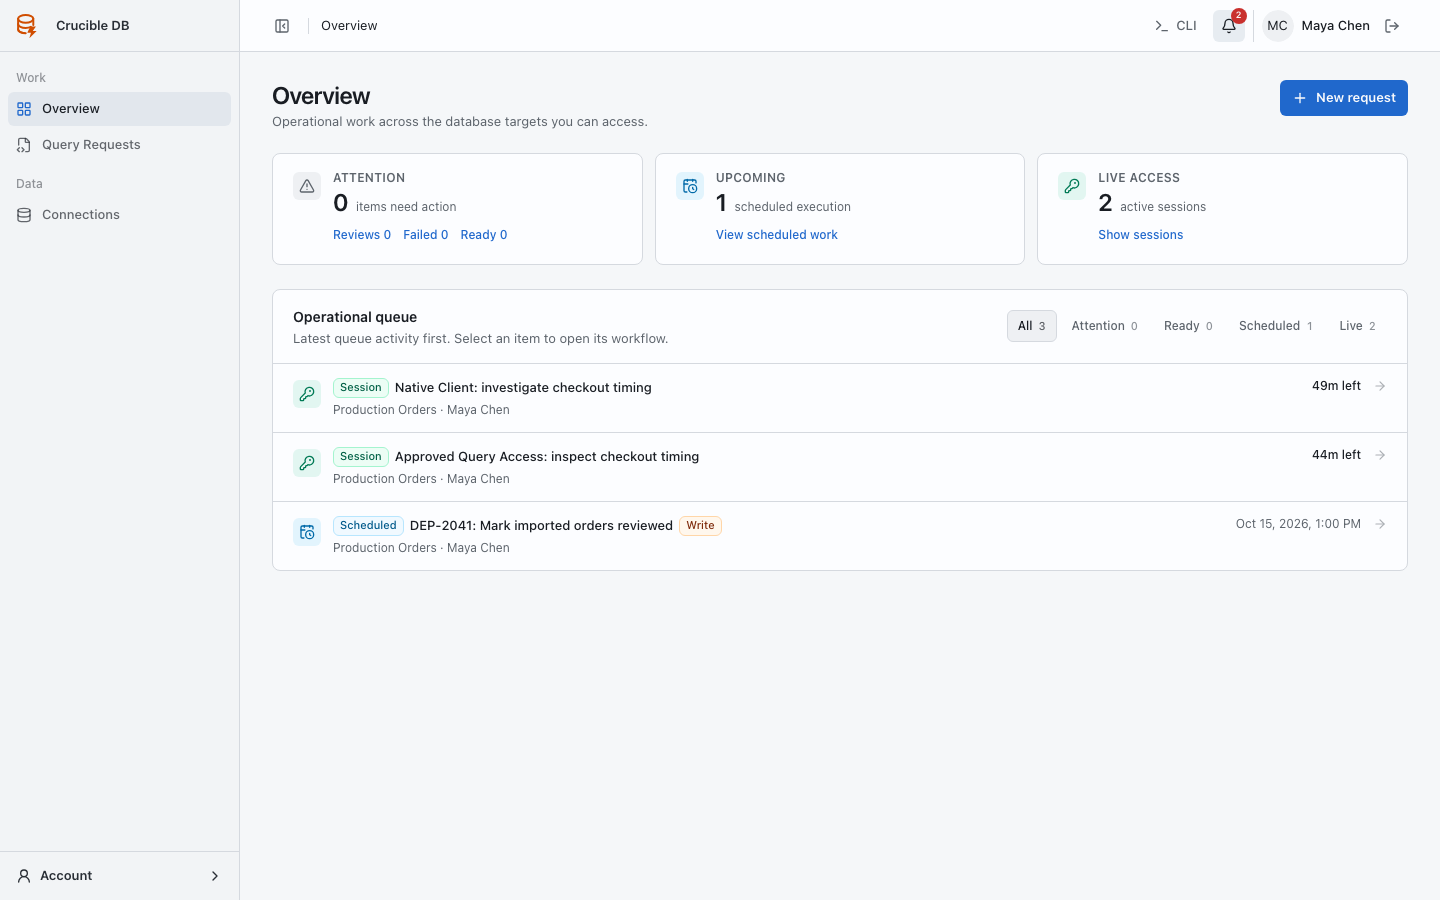
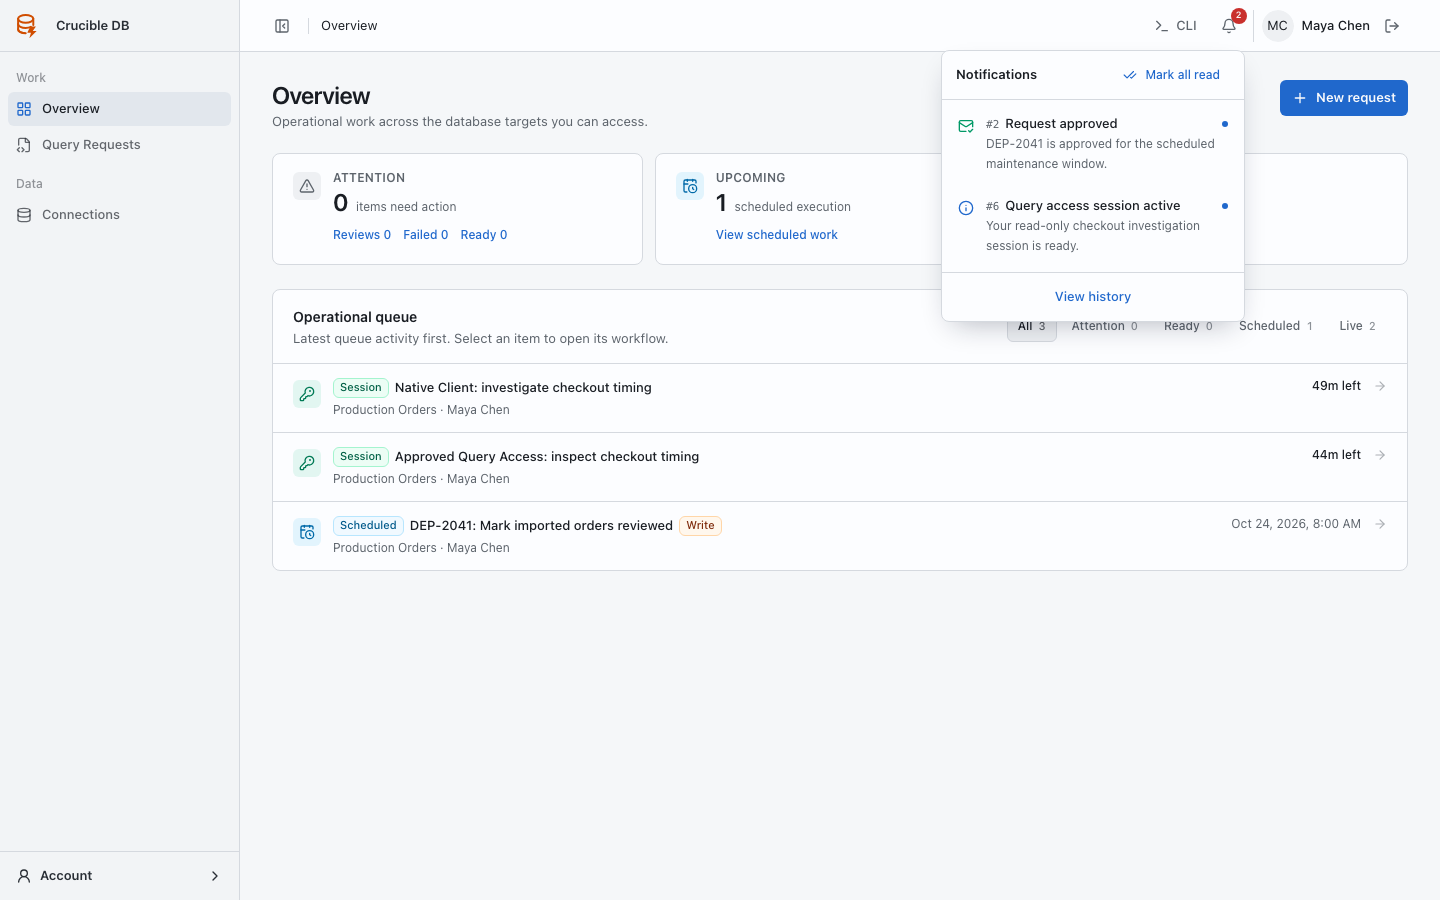
feat(query-requests): surface stable request IDs

diff --git a/resources/js/components/app-sidebar-header.tsx b/resources/js/components/app-sidebar-header.tsx
@@ -40,6 +40,7 @@ type NotificationPreview = {
     severity: 'info' | 'success' | 'warning' | 'critical';
     title: string;
     message: string;
+    request_id?: number | null;
     url: string;
     read_at: string | null;
 };
@@ -207,13 +208,22 @@ export function AppSidebarHeader({
                                                 severity={notification.severity}
                                             />
                                             <span className="min-w-0 flex-1">
-                                                <span className="flex items-center gap-2">
-                                                    <span className="truncate text-sm font-medium">
+                                                <span className="flex min-w-0 items-baseline gap-1.5">
+                                                    {notification.request_id !=
+                                                        null && (
+                                                        <span className="shrink-0 font-mono text-[11px] text-muted-foreground tabular-nums">
+                                                            #
+                                                            {
+                                                                notification.request_id
+                                                            }
+                                                        </span>
+                                                    )}
+                                                    <span className="min-w-0 flex-1 truncate text-sm font-medium">
                                                         {notification.title}
                                                     </span>
                                                     {notification.read_at ===
                                                         null && (
-                                                        <span className="size-1.5 shrink-0 rounded-full bg-primary" />
+                                                        <span className="size-1.5 shrink-0 self-center rounded-full bg-primary" />
                                                     )}
                                                 </span>
                                                 <span className="mt-0.5 line-clamp-2 block text-xs leading-5 text-muted-foreground">

diff --git a/resources/js/pages/query-requests/index.tsx b/resources/js/pages/query-requests/index.tsx
@@ -192,10 +192,13 @@ export default function QueryRequestsIndex({
                             </div>
                         ) : (
                             <div className="overflow-x-auto">
-                                <table className="w-full min-w-[760px] text-sm">
+                                <table className="w-full min-w-[820px] text-sm">
                                     <thead>
                                         <tr className="border-b bg-muted/35 text-left text-xs text-muted-foreground">
-                                            <th className="py-3 pr-4 pl-4 font-medium sm:pl-6">
+                                            <th className="w-20 py-3 pr-4 pl-4 font-medium sm:pl-6">
+                                                ID
+                                            </th>
+                                            <th className="py-3 pr-4 font-medium">
                                                 Request
                                             </th>
                                             <th className="py-3 pr-4 font-medium">
@@ -222,6 +225,15 @@ export default function QueryRequestsIndex({
                                                 className="border-b transition-colors last:border-0 hover:bg-accent/55"
                                             >
                                                 <td className="py-3.5 pr-4 pl-4 sm:pl-6">
+                                                    <Link
+                                                        href={show(request.id)}
+                                                        className="font-mono text-xs text-muted-foreground tabular-nums hover:text-primary"
+                                                        aria-label={`Open request #${request.id}`}
+                                                    >
+                                                        {`#${request.id}`}
+                                                    </Link>
+                                                </td>
+                                                <td className="py-3.5 pr-4">
                                                     <Link
                                                         href={show(request.id)}
                                                         className="font-medium hover:text-primary"

diff --git a/resources/js/pages/notifications/index.tsx b/resources/js/pages/notifications/index.tsx
@@ -24,6 +24,7 @@ type NotificationItem = {
     severity: 'info' | 'success' | 'warning' | 'critical';
     title: string;
     message: string;
+    request_id?: number | null;
     action_label: string;
     url: string;
     created_at: string | null;
@@ -95,6 +96,15 @@ export default function NotificationsIndex({
                                         />
                                         <div className="min-w-0">
                                             <div className="flex flex-wrap items-center gap-x-2 gap-y-1">
+                                                {notification.request_id !=
+                                                    null && (
+                                                    <span className="font-mono text-xs text-muted-foreground tabular-nums">
+                                                        #
+                                                        {
+                                                            notification.request_id
+                                                        }
+                                                    </span>
+                                                )}
                                                 <h2 className="text-sm font-semibold">
                                                     {notification.title}
                                                 </h2>

diff --git a/resources/js/components/crucible/query-request-filters.tsx b/resources/js/components/crucible/query-request-filters.tsx
@@ -40,7 +40,7 @@ export function QueryRequestFilters({
                             <Input
                                 name="search"
                                 defaultValue={filters.search}
-                                placeholder="Request, requester, connection"
+                                placeholder="ID, request, requester, connection"
                                 className="pl-9"
                                 aria-label="Search requests"
                             />

diff --git a/tests/Feature/NotificationDeliveryTest.php b/tests/Feature/NotificationDeliveryTest.php
@@ -112,9 +112,11 @@ class NotificationDeliveryTest extends TestCase
             ->assertInertia(fn ($page) => $page
                 ->component('notifications/index')
                 ->has('notifications.data', 1)
+                ->where('notifications.data.0.request_id', 42)
                 ->where('notification_summary.unread_count', 1)
                 ->has('notification_summary.recent', 1)
-                ->where('notification_summary.recent.0.id', $notification->id),
+                ->where('notification_summary.recent.0.id', $notification->id)
+                ->where('notification_summary.recent.0.request_id', 42),
             );
 
         $this->actingAs($user)
@@ -236,9 +238,36 @@ class NotificationDeliveryTest extends TestCase
 
         app(NotificationDispatcher::class)->requestSubmitted($request);
 
-        Notification::assertSentTo($reviewer, OperationalNotification::class, function (OperationalNotification $notification): bool {
-            return $notification->toArray($this)['event'] === 'query_request.review_required';
+        Notification::assertSentTo($reviewer, OperationalNotification::class, function (OperationalNotification $notification) use ($request): bool {
+            $payload = $notification->toArray($this);
+
+            return $payload['event'] === 'query_request.review_required'
+                && $payload['request_id'] === $request->id;
         });
+    }
+
+    public function test_operational_notification_mail_surfaces_the_request_id_when_available(): void
+    {
+        $user = User::factory()->create();
+        $notification = new OperationalNotification([
+            'event' => 'query_request.execution_failed',
+            'severity' => 'critical',
+            'title' => 'Batch execution failed',
+            'message' => 'Voucher outlet deployment failed at statement 4.',
+            'action_label' => 'Open request',
+            'url' => route('query-requests.show', 45),
+            'request_id' => 45,
+            'connection_count' => 1,
+            'statement_position' => 4,
+        ], true, true);
+
+        $mail = $notification->toMail($user);
+
+        $this->assertSame('[#45] Batch execution failed · Crucible DB', $mail->subject);
+        $this->assertSame([
+            'Request #45',
+            'Voucher outlet deployment failed at statement 4.',
+        ], $mail->introLines);
     }
 
     private function adminUser(): User
@@ -259,6 +288,7 @@ class NotificationDeliveryTest extends TestCase
                 'severity' => 'critical',
                 'title' => 'Batch execution failed',
                 'message' => 'DEP-42 failed at statement 2.',
+                'request_id' => 42,
                 'action_label' => 'Open request',
                 'url' => route('dashboard'),
             ],

diff --git a/app/Http/Controllers/QueryRequestController.php b/app/Http/Controllers/QueryRequestController.php
@@ -677,13 +677,21 @@ class QueryRequestController extends Controller
         $query
             ->when($filters['search'] !== '', function (Builder $query) use ($filters): void {
                 $search = $filters['search'];
+                $matchedRequestId = Str::of($search)
+                    ->match('/(?:^#?|\/query-requests\/)(\d+)(?:[\/?#]|$)/')
+                    ->toString();
+                $requestId = $matchedRequestId !== '' ? (int) $matchedRequestId : null;
 
-                $query->where(function (Builder $query) use ($search): void {
+                $query->where(function (Builder $query) use ($requestId, $search): void {
                     $query->where('title', 'like', "%{$search}%")
                         ->orWhereHas('requester', fn (Builder $requesters) => $requesters->where('name', 'like', "%{$search}%"))
                         ->orWhereHas('databaseConnection', fn (Builder $connections) => $connections->where('name', 'like', "%{$search}%"))
                         ->orWhereHas('accessConnections', fn (Builder $connections) => $connections->where('name', 'like', "%{$search}%"))
                         ->orWhereHas('statements.databaseConnection', fn (Builder $connections) => $connections->where('name', 'like', "%{$search}%"));
+
+                    if ($requestId !== null) {
+                        $query->orWhere('query_requests.id', $requestId);
+                    }
                 });
             })
             ->when($filters['status'] !== '', fn (Builder $query) => $query->where('status', $filters['status']))

diff --git a/tests/Unit/QueryRequestIdentifierLayoutTest.php b/tests/Unit/QueryRequestIdentifierLayoutTest.php
@@ -1,0 +1,44 @@
+<?php
+
+namespace Tests\Unit;
+
+use PHPUnit\Framework\TestCase;
+
+final class QueryRequestIdentifierLayoutTest extends TestCase
+{
+    public function test_request_ids_are_a_visible_searchable_first_column(): void
+    {
+        $pageSource = file_get_contents(
+            dirname(__DIR__, 2).'/resources/js/pages/query-requests/index.tsx',
+        );
+        $filterSource = file_get_contents(
+            dirname(__DIR__, 2).'/resources/js/components/crucible/query-request-filters.tsx',
+        );
+
+        $this->assertIsString($pageSource);
+        $this->assertIsString($filterSource);
+        $this->assertMatchesRegularExpression(
+            '/<th[^>]*>\s*ID\s*<\/th>\s*<th[^>]*>\s*Request\s*<\/th>/',
+            $pageSource,
+        );
+        $this->assertStringContainsString('{`#${request.id}`}', $pageSource);
+        $this->assertStringContainsString('aria-label={`Open request #${request.id}`}', $pageSource);
+        $this->assertStringContainsString(
+            'placeholder="ID, request, requester, connection"',
+            $filterSource,
+        );
+    }
+
+    public function test_request_id_remains_visible_on_the_detail_page(): void
+    {
+        $pageSource = file_get_contents(
+            dirname(__DIR__, 2).'/resources/js/pages/query-requests/show.tsx',
+        );
+
+        $this->assertIsString($pageSource);
+        $this->assertStringContainsString(
+            'description={`Request #${query_request.id}`}',
+            $pageSource,
+        );
+    }
+}

diff --git a/tests/Feature/CrucibleMvpTest.php b/tests/Feature/CrucibleMvpTest.php
@@ -857,6 +857,35 @@ SQL;
                 ->where('query_requests.data.0.title', 'Customer export'));
     }
 
+    public function test_query_request_index_search_accepts_request_ids_and_urls(): void
+    {
+        $admin = $this->adminUser();
+        $queryRequest = QueryRequest::factory()->create([
+            'requester_id' => $admin->id,
+            'title' => 'Request found by identifier',
+        ]);
+        QueryRequest::factory()->create([
+            'requester_id' => $admin->id,
+            'title' => 'Unrelated request',
+        ]);
+
+        $searchValues = [
+            (string) $queryRequest->id,
+            '#'.$queryRequest->id,
+            route('query-requests.show', $queryRequest),
+        ];
+
+        foreach ($searchValues as $search) {
+            $this->actingAs($admin)
+                ->get(route('query-requests.index', ['search' => $search]))
+                ->assertOk()
+                ->assertInertia(fn (Assert $page) => $page
+                    ->where('filters.search', $search)
+                    ->has('query_requests.data', 1)
+                    ->where('query_requests.data.0.id', $queryRequest->id));
+        }
+    }
+
     public function test_query_request_index_lists_and_filters_every_target_connection(): void
     {
         $admin = $this->adminUser();

diff --git a/tests/Unit/NotificationIdentifierLayoutTest.php b/tests/Unit/NotificationIdentifierLayoutTest.php
@@ -1,0 +1,34 @@
+<?php
+
+namespace Tests\Unit;
+
+use PHPUnit\Framework\TestCase;
+
+final class NotificationIdentifierLayoutTest extends TestCase
+{
+    public function test_request_ids_are_visible_in_the_notification_center_and_history(): void
+    {
+        $notificationCenterSource = file_get_contents(
+            dirname(__DIR__, 2).'/resources/js/components/app-sidebar-header.tsx',
+        );
+        $notificationHistorySource = file_get_contents(
+            dirname(__DIR__, 2).'/resources/js/pages/notifications/index.tsx',
+        );
+
+        $this->assertIsString($notificationCenterSource);
+        $this->assertIsString($notificationHistorySource);
+
+        foreach ([$notificationCenterSource, $notificationHistorySource] as $source) {
+            $this->assertStringContainsString(
+                'notification.request_id !=',
+                $source,
+            );
+            $this->assertStringContainsString(
+                'notification.request_id',
+                $source,
+            );
+            $this->assertStringContainsString('font-mono', $source);
+            $this->assertStringContainsString('tabular-nums', $source);
+        }
+    }
+}

diff --git a/app/Notifications/OperationalNotification.php b/app/Notifications/OperationalNotification.php
@@ -56,8 +56,14 @@ class OperationalNotification extends Notification implements ShouldQueue
      */
     public function toMail(object $notifiable): MailMessage
     {
+        $requestId = $this->payload['request_id'] ?? null;
+        $subject = $requestId === null
+            ? $this->payload['title'].' · Crucible DB'
+            : "[#{$requestId}] {$this->payload['title']} · Crucible DB";
+
         return (new MailMessage)
-            ->subject($this->payload['title'].' · Crucible DB')
+            ->subject($subject)
+            ->lineIf($requestId !== null, "Request #{$requestId}")
             ->line($this->payload['message'])
             ->action($this->payload['action_label'], $this->payload['url'])
             ->line('Open Crucible DB to view this governed database operation.');

diff --git a/app/Http/Controllers/NotificationController.php b/app/Http/Controllers/NotificationController.php
@@ -23,6 +23,7 @@ class NotificationController extends Controller
                     'severity' => $notification->data['severity'] ?? 'info',
                     'title' => $notification->data['title'] ?? 'Operational notification',
                     'message' => $notification->data['message'] ?? '',
+                    'request_id' => $notification->data['request_id'] ?? null,
                     'action_label' => $notification->data['action_label'] ?? 'Open',
                     'url' => $notification->data['url'] ?? route('dashboard'),
                     'created_at' => $notification->created_at?->toIso8601String(),

diff --git a/app/Http/Middleware/HandleInertiaRequests.php b/app/Http/Middleware/HandleInertiaRequests.php
@@ -63,6 +63,7 @@ class HandleInertiaRequests extends Middleware
                         'severity' => $notification->data['severity'] ?? 'info',
                         'title' => $notification->data['title'] ?? 'Operational notification',
                         'message' => $notification->data['message'] ?? '',
+                        'request_id' => $notification->data['request_id'] ?? null,
                         'url' => $notification->data['url'] ?? route('dashboard'),
                         'read_at' => $notification->read_at?->toIso8601String(),
                     ])
